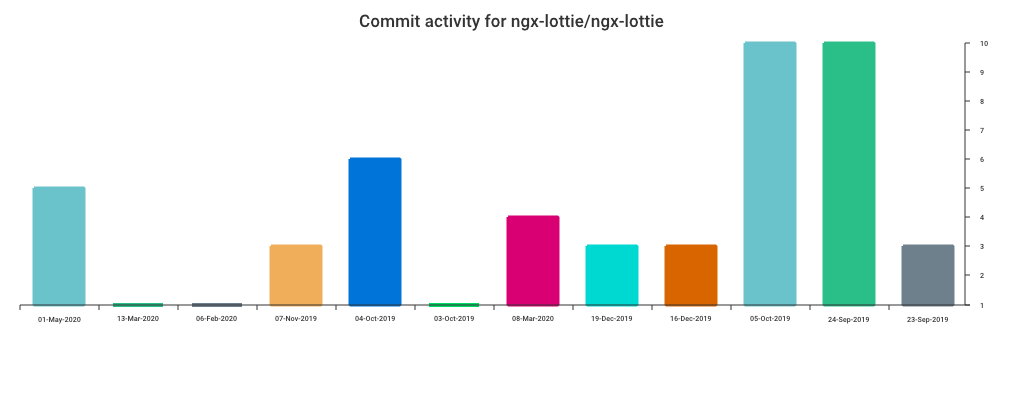
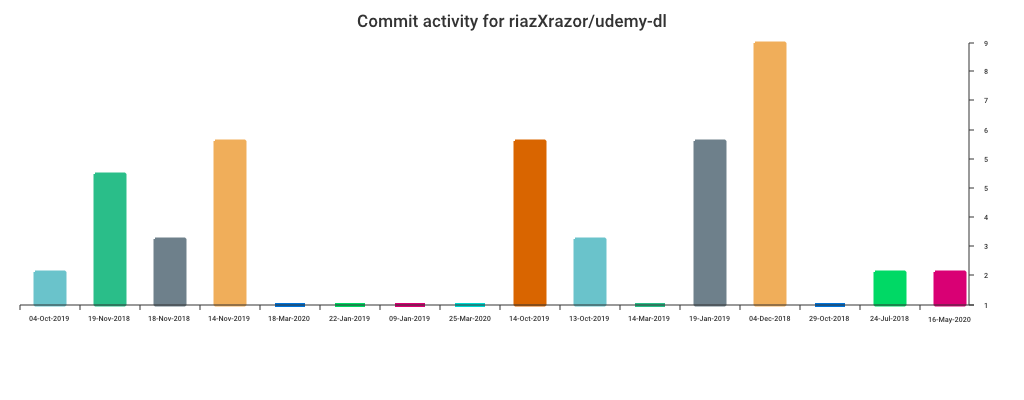
code update

Changed region(s): [[0.0312, 0.09, 0.9688, 0.81], [0.3438, 0.03, 0.6562, 0.09]]

diff --git a/main.go b/main.go
@@ -1,27 +1,28 @@
 package main
 
 //go:generate go run main.go
+
 import (
 	"context"
 	"fmt"
+	"log"
 	"os"
 
 	"github.com/google/go-github/github"
+	"github.com/joho/godotenv"
 	"github.com/wcharczuk/go-chart"
 	"golang.org/x/oauth2"
 )
 
-// ListOptions specifies the optional parameters to various List methods that
-// support pagination.
-type ListOptions struct {
-	// For paginated result sets, the number of results to include per page.
-	PerPage int `url:"per_page,omitempty"`
-}
-
 func main() {
-	//ngx-lottie/ngx-lottie
-	username := "ngx-lottie"
-	repo := "ngx-lottie"
+
+	err := godotenv.Load()
+	if err != nil {
+		log.Fatal("Error loading .env file")
+	}
+
+	username := "riazXrazor"
+	repo := "udemy-dl"
 	var bars []chart.Value
 	data := getRepoCommitData(username, repo)
 
@@ -59,7 +60,7 @@ func main() {
 			},
 		},
 		Height:   400,
-		BarWidth: 50,
+		BarWidth: 30,
 		Bars:     bars,
 	}
 
@@ -69,11 +70,11 @@ func main() {
 }
 
 func getRepoCommitData(username string, repo string) map[string]int {
-
+	TOKEN := os.Getenv("PERSONAL_ACCESS_TOKEN")
 	data := make(map[string]int)
 	context := context.Background()
 	ts := oauth2.StaticTokenSource(
-		&oauth2.Token{AccessToken: ""},
+		&oauth2.Token{AccessToken: TOKEN},
 	)
 	tc := oauth2.NewClient(context, ts)
 
